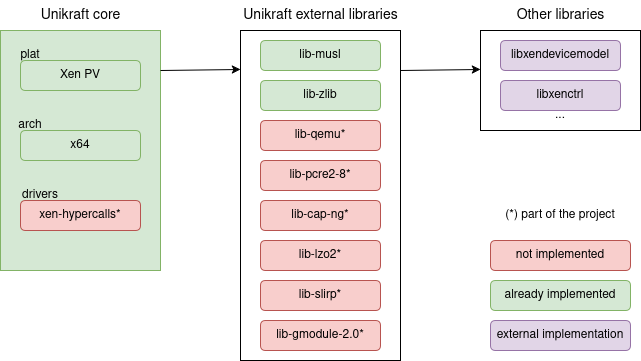
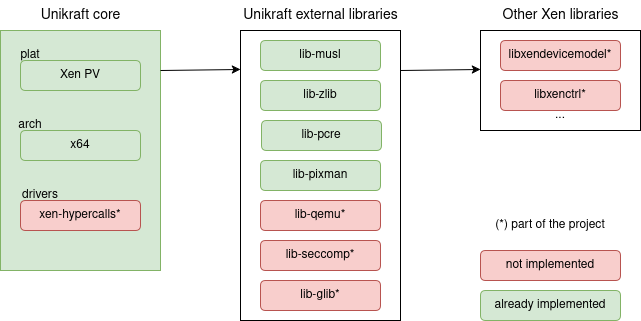
report1: Update status to last minute changes

diff --git a/report1/src/chapters/building-blocks.tex b/report1/src/chapters/building-blocks.tex
@@ -6,5 +6,5 @@ Because there's little interest for AArch64 in Qubes OS, we set the sensible obj
 Even by reducing the target to only one architecture, the total number of sources that would compile in the final Unikraft VM, from the QEMU side \footnote{QEMU is dependent on many external libraries, one of them being GLIBC} is still around 1400.
 When it comes to the platform the QEMU unikernel is going to run on, the obvious choice is Xen: it was requested by its community and it will be used by Qubes OS, a project that constructed their product around the type-1 hypervisor.
 
-We created the QEMU port in Unikraft as an external library, \textit{lib-qemu}, which requires multiple other external libraries: some that need to be freshly ported (\textit{lib-pcre2-8}, \textit{lib-cap-ng}, \textit{lib-lzo2}, to name a few), and some that are already part of the Unikraft ecosystem (\textit{lib-musl} and \textit{lib-zlib}).
+We created the QEMU port in Unikraft as an external library, \textit{lib-qemu}, which requires multiple other external libraries: some that need to be freshly ported (\textit{lib-seccomp}, \textit{lib-glib}, to name a few), and some that are already part of the Unikraft ecosystem (\textit{lib-musl}, \textit{lib-zlib} and others).
 As a result, we take advantage of the already implemented robust make-based build system, to integrate the missing library pieces into the big Unikraft picture.

diff --git a/report1/src/chapters/architecture.tex b/report1/src/chapters/architecture.tex
@@ -1,7 +1,7 @@
 \chapter{Architectural Overview}
 \label{chapter:architecture}
 
-Achieving running QEMU in Unikraft means mostly working on the external libraries mentioned in the previous chapter: \textit{lib-musl} and \textit{lib-zlib}, which are already ported, and lib-pcre2-8, \textit{lib-cap-ng}, \textit{lib-lzo2}, textit{lib-slirp} and \textit{lib-gmodule-2.0}, to be ported in an effort to support the target \textit{lib-qemu}.
+Achieving running QEMU in Unikraft means mostly working on the external libraries mentioned in the previous chapter: \textit{lib-musl}, \textit{lib-zlib}, \textit{lib-pcre} and \textit{lib-pixman}, which are already ported, and \textit{lib-seccomp}, \textit{lib-glib} and other Xen libraries, to be ported in an effort to support the target \textit{lib-qemu}.
 \labelindexref{Figure}{img:project-architecture} displays the interaction between these components inside Unikraft, together with an extra feature to be achieved in order to have the final unikernel able to make hypercalls.
 
 \fig[scale=0.5]{src/img/project-architecture.png}{img:project-architecture}{QEMU port architecture}

diff --git a/report1/src/chapters/status-planned-work.tex b/report1/src/chapters/status-planned-work.tex
@@ -13,5 +13,5 @@ What's more, we designed a script to pick up the sources and headers that will b
 \section{Planned Work}
 \label{sec:planned work}
 
-Future steps require we pay attention to the libraries that \textit{lib-qemu} depends on: \textit{lib-pcre2-8}, \textit{lib-cap-ng}, \textit{lib-lzo2}, \textit{lib-slirp} and \textit{lib-gmodule-2.0}, but also to the environment in which the resulting QEMU unikernel will run in, the Xen model device stubdomain, and its requirements.
+Future steps require we pay attention to the libraries that \textit{lib-qemu} depends on: \textit{lib-seccomp}, \textit{lib-glib}, and Xen related ones, but also to the environment in which the resulting QEMU unikernel will run in, the model device stubdomain, and its requirements.
 \labelindexref{Figure}{img:roadmap} displays the near future milestones to be achieved.
